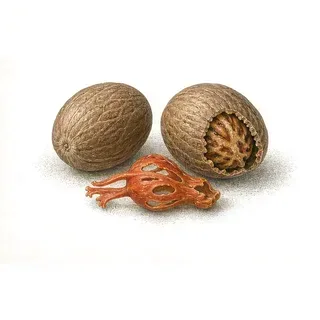
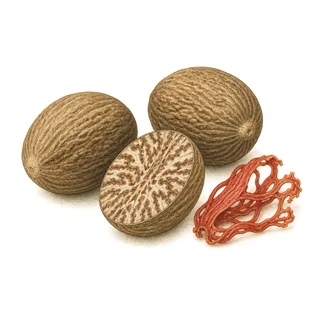
feat: search dropdown redesign, smooth marquee deceleration, new nutmeg
- search: real chevron with breathing room, detached rounded dropdown,
  larger illustrated results capped at 6
- marquee: playbackRate eased toward 0 on hover instead of hard pause
- nutmeg illustration regenerated (whole seeds, cut half, mace)

diff --git a/src/App.tsx b/src/App.tsx
@@ -1,4 +1,4 @@
-import { useMemo, useState } from "react";
+import { useEffect, useMemo, useRef, useState } from "react";
 import Box from "@mui/material/Box";
 import Container from "@mui/material/Container";
 import Typography from "@mui/material/Typography";
@@ -26,6 +26,64 @@ function shuffle(n: number): number[] {
     [a[i], a[j]] = [a[j], a[i]];
   }
   return a;
+}
+
+/**
+ * Marquee wrapper that eases the CSS animation's playbackRate toward 0 on
+ * hover (and back to 1 on leave) so the strip decelerates smoothly instead
+ * of freezing.
+ */
+function SmoothMarquee({ children }: { children: React.ReactNode }) {
+  const trackRef = useRef<HTMLDivElement | null>(null);
+  const target = useRef(1);
+
+  useEffect(() => {
+    let raf = 0;
+    let rate = 1;
+    const tick = () => {
+      rate += (target.current - rate) * 0.055;
+      const anim = trackRef.current?.getAnimations()[0];
+      if (anim) anim.playbackRate = Math.max(0, rate);
+      raf = requestAnimationFrame(tick);
+    };
+    raf = requestAnimationFrame(tick);
+    return () => cancelAnimationFrame(raf);
+  }, []);
+
+  return (
+    <Box
+      onMouseEnter={() => { target.current = 0; }}
+      onMouseLeave={() => { target.current = 1; }}
+      sx={{
+        width: "100vw",
+        overflow: "hidden",
+        mb: 4.5,
+        maskImage:
+          "linear-gradient(to right, transparent, #000 15%, #000 85%, transparent)",
+        WebkitMaskImage:
+          "linear-gradient(to right, transparent, #000 15%, #000 85%, transparent)",
+      }}
+    >
+      <Box
+        ref={trackRef}
+        sx={{
+          display: "flex",
+          width: "max-content",
+          gap: { xs: 2.5, md: 4 },
+          // the animated transform isolates blending, so the cream
+          // backdrop must live on this element for multiply to work
+          bgcolor: "background.default",
+          animation: "hero-marquee 90s linear infinite",
+          "@keyframes hero-marquee": {
+            from: { transform: "translateX(0)" },
+            to: { transform: "translateX(-50%)" },
+          },
+        }}
+      >
+        {children}
+      </Box>
+    </Box>
+  );
 }
 
 export default function App() {
@@ -83,58 +141,30 @@ export default function App() {
           }}
         >
           {/* clickable marquee of illustrations above the title, full-bleed
-              with faded edges; pauses on hover so items can be clicked */}
-          <Box
-            sx={{
-              width: "100vw",
-              overflow: "hidden",
-              mb: 4.5,
-              maskImage:
-                "linear-gradient(to right, transparent, #000 15%, #000 85%, transparent)",
-              WebkitMaskImage:
-                "linear-gradient(to right, transparent, #000 15%, #000 85%, transparent)",
-              "&:hover .marquee-track": { animationPlayState: "paused" },
-            }}
-          >
-            <Box
-              className="marquee-track"
-              sx={{
-                display: "flex",
-                width: "max-content",
-                gap: { xs: 2.5, md: 4 },
-                // the animated transform isolates blending, so the cream
-                // backdrop must live on this element for multiply to work
-                bgcolor: "background.default",
-                animation: "hero-marquee 90s linear infinite",
-                "@keyframes hero-marquee": {
-                  from: { transform: "translateX(0)" },
-                  to: { transform: "translateX(-50%)" },
-                },
-              }}
-            >
-              {[...marquee, ...marquee].map((i, k) => {
-                const s = data.ingredients[i];
-                return (
-                  <ButtonBase
-                    key={k}
-                    onClick={() => select(i)}
-                    disableRipple
-                    aria-label={`Explore ${s.en}`}
-                    tabIndex={k < marquee.length ? 0 : -1}
-                    sx={{
-                      width: { xs: 150, md: 210 },
-                      flexShrink: 0,
-                      "&:hover img": { transform: "scale(1.07)" },
-                    }}
-                  >
-                    <Box sx={{ aspectRatio: "1 / 1", width: "100%" }}>
-                      <IngredientImg ing={s} sizes="210px" />
-                    </Box>
-                  </ButtonBase>
-                );
-              })}
-            </Box>
-          </Box>
+              with faded edges; decelerates smoothly on hover */}
+          <SmoothMarquee>
+            {[...marquee, ...marquee].map((i, k) => {
+              const s = data.ingredients[i];
+              return (
+                <ButtonBase
+                  key={k}
+                  onClick={() => select(i)}
+                  disableRipple
+                  aria-label={`Explore ${s.en}`}
+                  tabIndex={k < marquee.length ? 0 : -1}
+                  sx={{
+                    width: { xs: 150, md: 210 },
+                    flexShrink: 0,
+                    "&:hover img": { transform: "scale(1.07)" },
+                  }}
+                >
+                  <Box sx={{ aspectRatio: "1 / 1", width: "100%" }}>
+                    <IngredientImg ing={s} sizes="210px" />
+                  </Box>
+                </ButtonBase>
+              );
+            })}
+          </SmoothMarquee>
 
           <Typography variant="h1" sx={{ fontSize: "clamp(52px, 8vw, 92px)" }}>
             Flavor Pairings

diff --git a/src/components/molecules/IngredientSearch.tsx b/src/components/molecules/IngredientSearch.tsx
@@ -3,6 +3,7 @@ import Autocomplete from "@mui/material/Autocomplete";
 import TextField from "@mui/material/TextField";
 import InputAdornment from "@mui/material/InputAdornment";
 import SearchIcon from "@mui/icons-material/Search";
+import ExpandMoreRoundedIcon from "@mui/icons-material/ExpandMoreRounded";
 import CircularProgress from "@mui/material/CircularProgress";
 import Tooltip from "@mui/material/Tooltip";
 import Box from "@mui/material/Box";
@@ -16,6 +17,8 @@ interface Option {
   index: number;
 }
 
+const MAX_RESULTS = 6;
+
 const strip = (s: string) => s.toLowerCase().normalize("NFD").replace(/[\u0300-\u036f]/g, "");
 
 /** Substring fallback used while the embedding model is still loading. */
@@ -28,7 +31,7 @@ function fuzzy(ingredients: Ingredient[], q: string): Option[] {
       const ys = strip(y.ing.en).startsWith(q) ? 0 : 1;
       return xs - ys || y.ing.nrec - x.ing.nrec;
     })
-    .slice(0, 8);
+    .slice(0, MAX_RESULTS);
 }
 
 export function IngredientSearch({
@@ -86,7 +89,7 @@ export function IngredientSearch({
           // similarity: only trust rankings whose best hit stands out
           .filter((s) => s.boost > 0 || (margin >= 0.3 && s.sim >= top1 - 0.1))
           .sort((a, b) => b.score - a.score)
-          .slice(0, 8)
+          .slice(0, MAX_RESULTS)
           .map(({ index }) => ({ ing: ingredients[index], index }));
         setOptions(picked);
       } catch {
@@ -117,16 +120,69 @@ export function IngredientSearch({
       blurOnSelect
       clearOnBlur
       onOpen={warmUp}
+      popupIcon={<ExpandMoreRoundedIcon />}
       noOptionsText={
         input.trim().length < 2
           ? "Type at least 2 characters"
           : "No ingredient found"
       }
+      slotProps={{
+        paper: {
+          sx: {
+            mt: 1.25,
+            borderRadius: "16px",
+            border: 1,
+            borderColor: "divider",
+            boxShadow: "0 16px 40px rgba(70,45,20,.14)",
+            overflow: "hidden",
+          },
+        },
+        listbox: {
+          sx: {
+            py: 1,
+            "& .MuiAutocomplete-option": {
+              px: 2,
+              py: 1.1,
+              mx: 1,
+              borderRadius: "10px",
+              '&[aria-selected="true"], &.Mui-focused, &:hover': {
+                bgcolor: "#f7f1de",
+              },
+            },
+          },
+        },
+      }}
+      sx={{
+        // real chevron, breathing room from the right edge, no flip jump
+        "& .MuiAutocomplete-endAdornment": { right: 20 },
+        "& .MuiAutocomplete-popupIndicator": {
+          color: "text.secondary",
+          transition: "transform .2s",
+        },
+      }}
       renderOption={(props, o) => (
-        <Box component="li" {...props} key={o.index} sx={{ display: "flex", gap: 1.4, alignItems: "center" }}>
-          <IngredientVisual ing={o.ing} size={32} />
-          <Typography sx={{ flex: 1 }}>{o.ing.en}</Typography>
-          <Typography variant="body2" color="text.secondary">
+        <Box
+          component="li"
+          {...props}
+          key={o.index}
+          sx={{ display: "flex", gap: 1.75, alignItems: "center" }}
+        >
+          <IngredientVisual ing={o.ing} size={46} round={false} />
+          <Typography
+            sx={{
+              flex: 1,
+              fontFamily: "'Fraunces', serif",
+              fontSize: 17.5,
+              fontWeight: 550,
+              textTransform: "capitalize",
+              overflow: "hidden",
+              textOverflow: "ellipsis",
+              whiteSpace: "nowrap",
+            }}
+          >
+            {o.ing.en}
+          </Typography>
+          <Typography sx={{ fontSize: 12.5, color: "text.secondary", flexShrink: 0 }}>
             {o.ing.nrec.toLocaleString("en-US")} recipes
           </Typography>
         </Box>
@@ -154,7 +210,7 @@ export function IngredientSearch({
               ) : (
                 params.InputProps.endAdornment
               ),
-              sx: { borderRadius: 99, bgcolor: "background.paper", px: 2.5, py: 0.5 },
+              sx: { borderRadius: 99, bgcolor: "background.paper", pl: 2.5, pr: 3, py: 0.5 },
             },
           }}
         />
